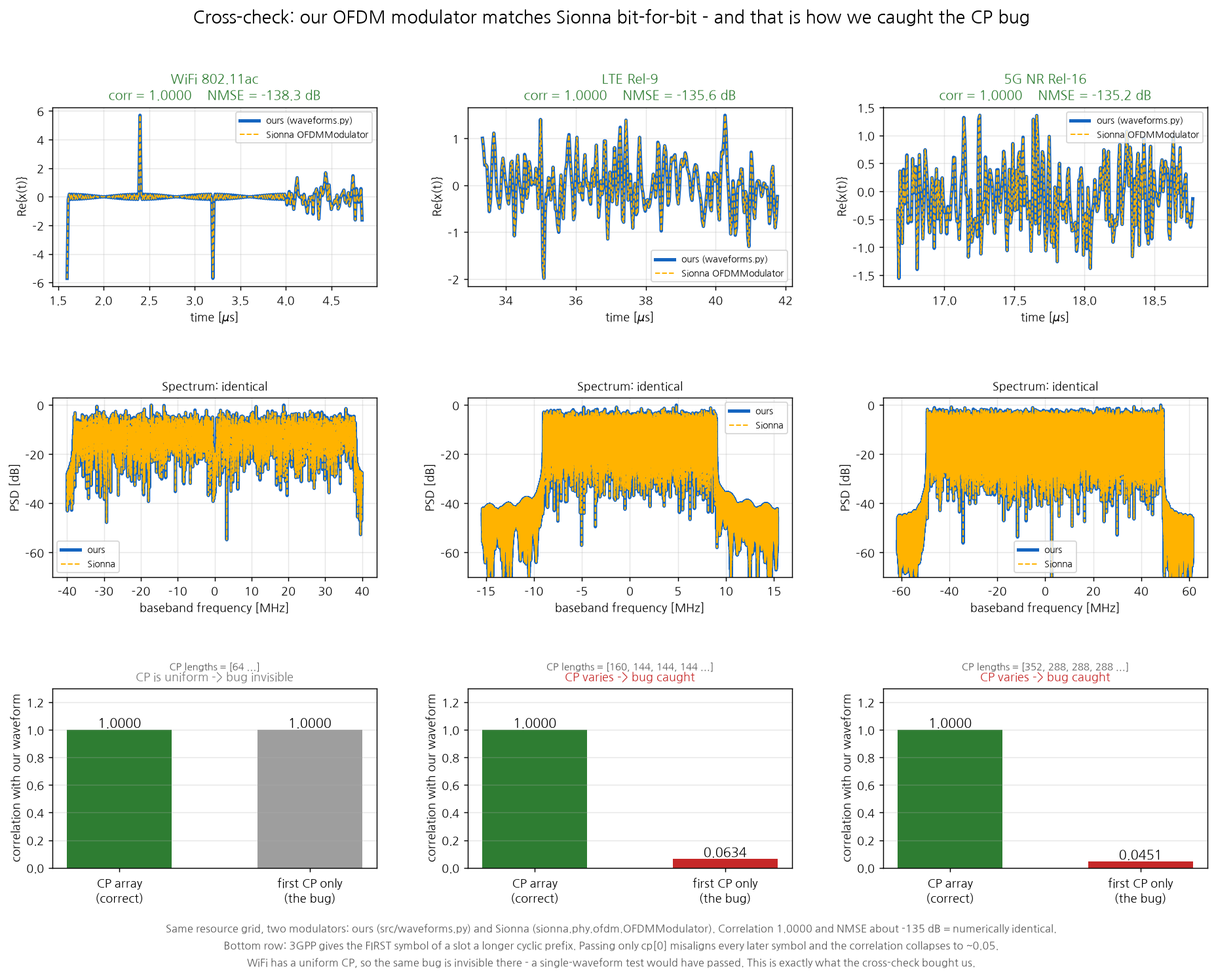
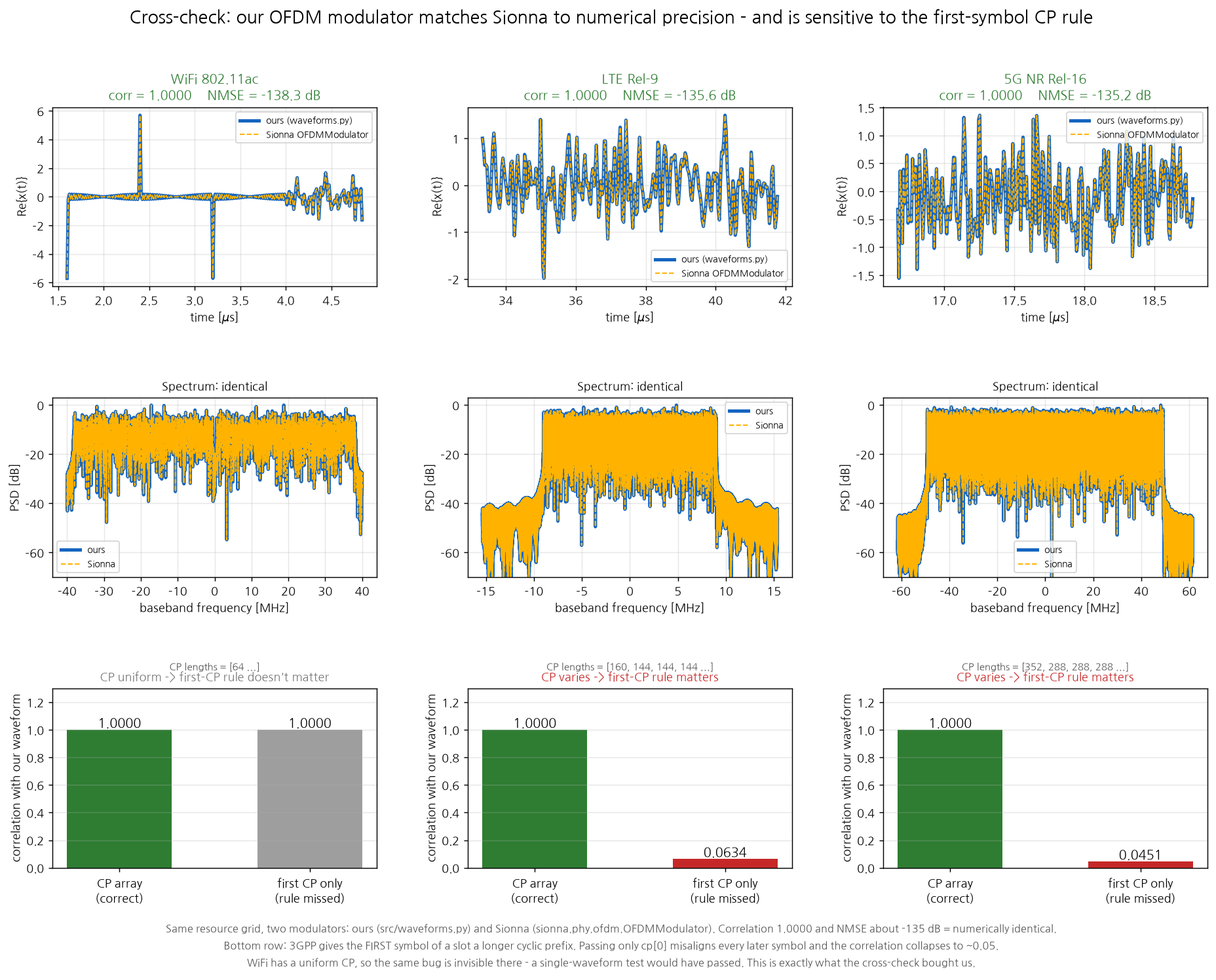
리포트 1~8 병렬 적대적 검증 반영 + photo_compare 정면 렌더 개선
병렬 다중에이전트 검증(9검증+적대적확인, 29에이전트)에서 확정된 16건 중 13건 적용:
- r01 바닥에코 '약 5배'→'진폭 5배·세기 30배'(용어집 일치), |Γ|≈0.39 수직입사 주석,
  report3_ 레거시 파일명 주석.
- r02 report03 대조 대상 '스캔'→'커뮤니티 메쉬'(report03는 스캔 미사용), photo_compare
  캡션을 '렌더한 모습'으로 정확화.
- r03 그림 텍스트 '5–12→6–12 dB'·'−3.5…−5.3→−3.0…−3.7 dB'(실제값), 규모 컬럼 명확화.
- r04 뉴머롤로지 귀속 정정: 5G NR만 CarrierConfig, LTE·WiFi는 TS36.211/IEEE 자작
  (nr.CarrierConfig는 5G NR 전용) — r05와 일치. §3→§2 자원격자 참조.
- r05 CP 교차검증 그림 과거버그 서사 제거('the bug'→'rule missed', 'bit-for-bit'→
  'numerical precision'), stale 고아그림 report2_sionna_waveforms 참조를 최신
  crosscheck.png로 대체(시간+스펙트럼+CP 종합).
- r07 §4/§5 존댓말→해라체 통일(본문 일관).
- 보류 3건(저심각도): WiFi 76.6 대역표시·38× 미분해·0.02dB 반올림.

photo_compare: 정면 사진급 Mitsuba 렌더로 개선(실사진 각도 정합·흰배경 합성·자동크롭).
드론 정면뷰 추가·최고품질(spp1536). 리포트 전간 일관성 검증 통과(링크·스캐폴딩·앵커).

diff --git a/src/make_notebook07.py b/src/make_notebook07.py
@@ -309,9 +309,9 @@ cells.append(md(
     "## §4. 검증 — 답을 아는 물건에 대고 재보기",
     "",
     "SBR+PO 계산이 옳게 도는지 확인하는 표준 절차는 **답이 이미 알려진 정준 표적(canonical target)에 "
-    "대고 재보는 것**입니다 — 커스텀 산란 add-on 을 얹는 선행 연구(예: Ziganshin, arXiv:2604.05991)도 "
-    "구·원통 같은 정준체를 해석해·상용 솔버(FEKO)·실측과 대조해 검증합니다. 레이더 교과서는 두 물건의 "
-    "밝기를 폐형식(닫힌 공식)으로 줍니다: 정면으로 조사한 **금속 평판**은 σ = 4πA²/λ², **금속구**는 "
+    "대고 재보는 것**이다 — 커스텀 산란 add-on 을 얹는 선행 연구(예: Ziganshin, arXiv:2604.05991)도 "
+    "구·원통 같은 정준체를 해석해·상용 솔버(FEKO)·실측과 대조해 검증한다. 레이더 교과서는 두 물건의 "
+    "밝기를 폐형식(닫힌 공식)으로 준다: 정면으로 조사한 **금속 평판**은 σ = 4πA²/λ², **금속구**는 "
     "σ = πr².",
     "",
     "![sbr validate](outputs/figures/report2_sbr_validate.png)",
@@ -326,9 +326,9 @@ cells.append(md(
     f"**{_sphere_err:+.2f} dB** (λ/10) | {_p6_sphere:+.2f} dB |",
     "",
     "→ 두 물건 모두 교과서 값과 **1 dB 이내**로 맞고, 완전히 따로 돌린 report6 커널도 같은 값을 "
-    "냅니다. **방법 자체는 옳습니다.**",
+    "낸다. **방법 자체는 옳다.**",
     "",
-    "**단, 매끈한 구는 원래 까다로운 표적입니다 — 정직하게 짚습니다.** 구는 레이더 쪽으로 "
+    "**단, 매끈한 구는 원래 까다로운 표적이다 — 정직하게 짚는다.** 구는 레이더 쪽으로 "
     "**똑바로 되쏘는 지점(정반사점)이 딱 하나뿐**이라, 촘촘한 광선 격자 중 **한 발이 그 점 위에 "
     "떨어지느냐**에 따라 값이 흔들립니다. 격자 밀도는 그대로 두고 격자를 살짝 옆으로 옮겨가며 "
     "재보면(그림 b):",
@@ -338,30 +338,30 @@ cells.append(md(
     *[f"| λ/{d['div']} | **{d['spread']:.2f} dB** |" for d in V["dither"]],
     "",
     f"→ 거친 λ/8 에서는 격자 위치만으로 **{_lam8['spread']:.1f} dB** 가 움직이지만, 촘촘한 λ/24 "
-    f"에서는 {_lam24['spread']:.2f} dB 로 닫힙니다. 즉 매끈한 곡면은 촘촘한 격자에서만 안정됩니다.",
+    f"에서는 {_lam24['spread']:.2f} dB 로 닫힌다. 즉 매끈한 곡면은 촘촘한 격자에서만 안정된다.",
     "",
     "**하지만 드론은 성질이 다릅니다** — 되쏘는 점이 몸통·팔·모터·프로펠러에 잔뜩 흩어져 있어, "
-    "방위(각도)를 돌려가며 평균을 내면 **저절로 안정**됩니다(그림 c):",
+    "방위(각도)를 돌려가며 평균을 내면 **저절로 안정**된다(그림 c):",
     "",
     "| 격자 | " + " | ".join(f"λ/{d}" for d in V["drone_conv"][list(V["drone_conv"])[0]]["divs"]) + " |",
     "|---|" + "---|" * len(V["drone_conv"][list(V["drone_conv"])[0]]["divs"]),
     *[f"| {tag} 방위평균 [dBsm] | " + " | ".join(f"{m:+.2f}" for m in ser["mean_dbsm"]) + " |"
       for tag, ser in V["drone_conv"].items()],
     "",
-    f"→ λ/8 부터는 촘촘한 λ/24 값과 **{_dc_dev:.2f} dB 이내**로 붙습니다(가장 거친 λ/6 만 "
-    f"{_dc_coarse:.2f} dB 벗어납니다). **드론 측정은 λ/{SBR_DIV} 로 돌리므로 수렴 구간 안**입니다.",
+    f"→ λ/8 부터는 촘촘한 λ/24 값과 **{_dc_dev:.2f} dB 이내**로 붙는다(가장 거친 λ/6 만 "
+    f"{_dc_coarse:.2f} dB 벗어난다). **드론 측정은 λ/{SBR_DIV} 로 돌리므로 수렴 구간 안**이다.",
     "",
-    "정확히 하면 이 수렴은 **촘촘한 방위 샘플(180개)의 평균**에서 성립합니다. **개별 방위각 하나의 값**은 "
+    "정확히 하면 이 수렴은 **촘촘한 방위 샘플(180개)의 평균**에서 성립한다. **개별 방위각 하나의 값**은 "
     "격자를 λ/12→λ/24 로 반절해도 최대 ~6 dB 흔들리고(p95 ~3.9 dB), 방위 샘플이 24개뿐이면 평균조차 "
-    "~0.5 dB 움직입니다(`report_mesh/outputs/mesh_verify.json` I_sbr_subdiv). 그러므로 **개별각 σ 값은 "
-    "수렴한 숫자가 아니며 인용하지 않습니다** — 우리가 밖으로 내보내는 것은 촘촘한 방위평균뿐입니다.",
+    "~0.5 dB 움직인다(`report_mesh/outputs/mesh_verify.json` I_sbr_subdiv). 그러므로 **개별각 σ 값은 "
+    "수렴한 숫자가 아니며 인용하지 않는다** — 우리가 밖으로 내보내는 것은 촘촘한 방위평균뿐이다.",
     "",
     "덧붙여 삼각형을 4배(25,676→102,704면) 잘게 쪼개도 σ 변화는 사실상 0(최대 ~10⁻⁴ dB, 같은 파일 "
-    "I_sbr_subdiv subdivision_invariance)입니다 — 결과가 메쉬 테셀레이션의 산물이 아니라 **표면 형상 "
-    "그 자체**에서 나온다는 뜻입니다.",
+    "I_sbr_subdiv subdivision_invariance)이다 — 결과가 메쉬 테셀레이션의 산물이 아니라 **표면 형상 "
+    "그 자체**에서 나온다는 뜻이다.",
     "",
     "> 정리하면, 정반사점이 하나뿐인 매끈한 구가 이 방법에게 가장 까다로운 표적이고, 되쏘는 점이 "
-    "많은 드론은 방위평균이 스스로 값을 안정시켜 줍니다 — 표적의 성질 차이입니다.",
+    "많은 드론은 방위평균이 스스로 값을 안정시켜 준다 — 표적의 성질 차이다.",
 ))
 
 # =========================================================================== #
@@ -373,8 +373,8 @@ cells.append(md(
     "",
     "가림을 처리하지 않는 순수 PO 는 표면 조각이 시선 쪽을 향하기만 하면($\\hat n\\cdot"
     "\\hat u > 0$) '빛나는 면' 으로 셉니다 — **앞의 부품에 완전히 가려져 실제로는 레이더에 안 보여도** "
-    "그렇습니다. 반면 SBR 은 광선을 실제로 쏘므로, 뒤에 숨은 면은 광선이 앞면에서 멈춰 애초에 닿지 "
-    "못합니다. 이 가림 처리는 상용 EM 솔버의 SBR 과 같은 성질입니다.",
+    "그렇다. 반면 SBR 은 광선을 실제로 쏘므로, 뒤에 숨은 면은 광선이 앞면에서 멈춰 애초에 닿지 "
+    "못한다. 이 가림 처리는 상용 EM 솔버의 SBR 과 같은 성질이다.",
     "",
     "![occlusion](outputs/figures/report2_occlusion.png)",
     "",
@@ -390,7 +390,7 @@ cells.append(md(
     f"**{OCC['area_vis']*1e4:.0f} cm²** |",
     "",
     f"→ 순수 PO 는 실제로 보이는 것보다 **약 {OCC['area_po']/OCC['area_vis']:.1f} 배 넓은 면적**을 "
-    "밝기에 넣고 있었습니다. 가려진 면을 빼면 밝기가 그만큼 내려갑니다:",
+    "밝기에 넣고 있었다. 가려진 면을 빼면 밝기가 그만큼 내려간다:",
     "",
     f"**{OCC['name']}, {OCC['n_az']} 방위 평균, 올려본각 {OCC['el']:.0f}°, {OCC['fc']/1e9:.1f} GHz:**",
     "",
@@ -405,10 +405,10 @@ cells.append(md(
     "![po vs sbr](outputs/figures/report2_po_vs_sbr.png)",
     "",
     f"흥미롭게도, PO 계열에 흔히 지적되는 '오목한 곳의 다중반사를 놓친다' 는 약점은 여기서 "
-    f"**{OCC['multibounce_db']:+.2f} dB** 짜리 사소한 항이었습니다. 실제로 밝기를 바꾼 것은 "
-    f"**가림({abs(OCC['occlusion_db']):.2f} dB)** 이었습니다 — 한 자릿수 차이입니다.",
+    f"**{OCC['multibounce_db']:+.2f} dB** 짜리 사소한 항이었다. 실제로 밝기를 바꾼 것은 "
+    f"**가림({abs(OCC['occlusion_db']):.2f} dB)** 이었다 — 한 자릿수 차이다.",
     "",
-    "> 이것이 SBR 이 순수 PO 대비 실제로 고치는 지점입니다. 광선을 쏘아 **레이더에 실제로 보이는 "
+    "> 이것이 SBR 이 순수 PO 대비 실제로 고치는 지점이다. 광선을 쏘아 **레이더에 실제로 보이는 "
     "면만** 밝기에 넣으니, 뒤에 숨은 면까지 세는 순수 PO 보다 값이 낮아집니다.",
 ))
 

diff --git a/src/make_notebook04.py b/src/make_notebook04.py
@@ -82,8 +82,8 @@ _prov = provenance_cells(
                "peer-reviewed), 셀룰러 하향링크 멀티스태틱 도플러 추적(arXiv:2509.25732), "
                "**5G SSB** 저고도 드론 검출·측위(Jopanya & Osorio, *IEEE SPAWC* 2025, "
                "arXiv:2504.02641) (§3)."),
-        lib=("**5G NR·LTE 뉴머롤로지는 Sionna PHY `nr.CarrierConfig` 에 물어**(중복 구현 회피), "
-             "**WiFi 와 상시 기준신호(CRS/SSB) 격자만 3GPP TS 36.211/38.211·IEEE 802.11ac 표에서 "
+        lib=("**5G NR 뉴머롤로지는 Sionna PHY `nr.CarrierConfig`(TS 38.211 구현) 에 물어**(중복 구현 회피), "
+             "**LTE·WiFi 파형과 상시 기준신호(CRS/SSB) 격자는 3GPP TS 36.211/38.211·IEEE 802.11ac 표에서 "
              "자작**(`src/waveforms.py`)한다. 점유대역·PRF 를 격자에서 읽어 "
              "ΔR=c/$B_{ref}$·$v_{max}$=PRF·λ/4 로 환산(§4)."),
         verify=(f"파형이 정말 규격대로인지는 **Sionna PHY 로 교차대조(report05)** — 대역폭·뉴머롤로지·"
@@ -123,9 +123,9 @@ _prov = provenance_cells(
         dict(file="outputs/figures/report2_ref_signal.png",
              what="§2 넓이→거리 · 반복→속도 예산 그림"),
         dict(file="outputs/figures/report2_resource_grid.png",
-             what="§3 자원격자 사진 (WiFi/LTE/5G × 유휴/풀로드)"),
+             what="§2 자원격자 사진 (WiFi/LTE/5G × 유휴/풀로드)"),
         dict(file="outputs/figures/report2_occupancy.png",
-             what="§3 점유율은 늘어도 거리분해능은 안 늘더라"),
+             what="§2 점유율은 늘어도 거리분해능은 안 늘더라"),
     ],
 
     caveats=[
@@ -408,8 +408,9 @@ cells.append(md(
     "우리는 선행이 고른 그 상시 기준신호들을 **한 챔버에서 같은 조건으로** 나란히 세워 장단점을 가린다. "
     "핵심은 **이미 있는 것은 다시 짜지 않는다**는 것이다:",
     "",
-    "- **5G NR·LTE 뉴머롤로지**(μ·SCS·슬롯·CP)는 🟢 **Sionna PHY `nr.CarrierConfig`** 에 물어 그대로 "
-    "받는다(TS 38.211 구현). 표를 손으로 짜지 않으니 규격과 어긋날 수 없고, OFDM 파형 생성도 Sionna 가 한다.",
+    "- **5G NR 뉴머롤로지**(μ·SCS·슬롯·CP)는 🟢 **Sionna PHY `nr.CarrierConfig`** 에 물어 그대로 "
+    "받는다(TS 38.211 구현) — 표를 손으로 짜지 않으니 규격과 어긋날 수 없고, 5G OFDM 파형 생성도 Sionna 가 한다. "
+    "**LTE 뉴머롤로지**(15 kHz SCS·normal CP)는 🔴 TS 36.211 로 자작한다(nr.CarrierConfig 는 5G NR 전용).",
     "- **WiFi(802.11) 파형과 상시 기준신호(CRS·SSB)의 자원격자 배치**만 🔴 3GPP TS 36.211/38.211·"
     "IEEE 802.11ac 표에서 자작한다(`src/waveforms.py`, 조사 근거 `docs/waveform_research.json`) — "
     "Sionna 가 이 부분을 기본 제공하지 않기 때문이다(§1).",

diff --git a/src/make_notebook02.py b/src/make_notebook02.py
@@ -139,14 +139,14 @@ cells += provenance_cells(
     caveats=[
         "이 모델은 **제원표의 치수와 눈에 보이는 형상**을 맞춘 것이다. 나사·배선·틈새 같은 "
         "밀리미터 이하 디테일은 없다 — 이 리포트는 '겉모양이 맞다'까지만 보장한다.",
-        "실물 제품 사진과의 **눈 대조**는 §4 에서 한다. 서로 다른 프록시 실기체 CAD·스캔과의 **치수·σ 분포 대조**는 report03(본 RCS 계산은 06~08).",
+        "실물 제품 사진과의 **눈 대조**는 §4 에서 한다. 서로 다른 프록시 실기체 CAD·커뮤니티 메쉬와의 **치수·σ 분포 대조**는 report03(본 RCS 계산은 06~08).",
         "**레이더 밝기(RCS, σ)** 는 이 리포트에서 계산하지 않는다. 여기서 만든 메쉬를 **재료**로 삼아 "
         "이후 리포트(06~08)가 광선+물리광학으로 밝기를 계산한다.",
     ],
     cost="CPU 만 사용(메쉬 생성·검사는 GPU 불필요). 5종 전체 생성+검사 수십 초 규모.",
     related=[
         dict(rep="report01 — 통제 환경: 반무향 챔버", rel="이 드론들을 **띄울 무대**. 앞 리포트."),
-        dict(rep="report03 — 모델을 믿어도 되나(분포 대조)", rel="겉모양을 프록시 실기체 CAD·스캔과 **치수·σ 분포로 대조**한다(본 RCS 계산은 06~08). 다음 리포트."),
+        dict(rep="report03 — 모델을 믿어도 되나(분포 대조)", rel="겉모양을 프록시 실기체 CAD·커뮤니티 메쉬와 **치수·σ 분포로 대조**한다(본 RCS 계산은 06~08). 다음 리포트."),
         dict(rep="report06~08 — RCS · SBR", rel="이 메쉬를 재료로 표적의 **레이더 밝기 σ** 를 계산한다."),
     ],
     glossary=[
@@ -457,7 +457,7 @@ cells.append(md(
     "",
     "### 실제 제품 사진과 대조",
     "",
-    "각 드론의 **실제 제품 사진**(왼쪽)과 우리가 **스펙시트에서 만든 메쉬**(오른쪽)를 나란히 놓았습니다. "
+    "각 드론의 **실제 제품 사진**(왼쪽)과 우리가 **스펙시트에서 만든 메쉬를 같은 정면 각도에서 렌더한 모습**(오른쪽)을 나란히 놓았습니다. "
     "스펙 치수(대각·프롭·엔벨로프)는 공식값 그대로 두고, 실사진·웹조사를 참고해 **결정적 형상**을 담았습니다 "
     "— Mavic 4 Pro 의 큰 전면 Hasselblad 3렌즈 짐벌·전방향 어안·전방 LiDAR, Matrice 4E 의 전면 측량 짐벌·상단 RTK 돔·"
     "레이저 거리계, Mini 5 Pro 의 전면 1인치 짐벌·전방 LiDAR·전방향 어안, Phantom 4 의 아치형 착륙다리·벨리 짐벌·5방향 비전, "

diff --git a/src/make_notebook01.py b/src/make_notebook01.py
@@ -134,7 +134,7 @@ cells += provenance_cells(
     ],
     artifacts=[
         {"file": "outputs/report1.json", "what": "챔버 치수·재질(단일 진리원)"},
-        {"file": "outputs/report3_rt.json", "what": "바닥 반사 손계산 vs Sionna RT"},
+        {"file": "outputs/report3_rt.json", "what": "바닥 반사 손계산 vs Sionna RT (레거시 report3_ 파일명 유지)"},
         {"file": "outputs/renders/r1_1x_chamber_*.png", "what": "Sionna 가 렌더한 챔버 사진"},
         {"file": "outputs/figures/report3_f4_floor.png", "what": "바닥 반사 일치 그래프"},
     ],
@@ -206,7 +206,7 @@ cells.append(md(
     f"- **네 벽 + 천장** = **피라미드 흡수체**로 덮여 있다. 전파가 여기 닿으면 되튕기지 않고 폼 속에서 열로 사라진다. "
     "(모델 안에서 흡수체 표면은 삼각형 약 {:,}개로 촘촘히 만들어져 있다.)".format(n_absorber),
     "- **바닥** = 콘크리트다. 유일하게 전파를 되튕기는 면이다. "
-    f"콘크리트의 유전율은 ε_r={eps_r:.2f}, 반사율은 |Γ|≈{gamma_floor:.2f} — "
+    f"콘크리트의 유전율은 ε_r={eps_r:.2f}, 반사율은 |Γ|≈{gamma_floor:.2f}(수직 입사 기준 — 실제 46° 입사에선 §4 의 Γ≈0.26) — "
     f"닿은 전파의 **진폭** 기준 약 {gamma_floor*100:.0f}%"
     f"(세기로는 약 {gamma_floor**2*100:.0f}%)를 되튕긴다.",
     "",
@@ -308,7 +308,7 @@ cells.append(md(
     f"② 콘크리트 바닥이 완벽한 거울이 아니라 일부만 되튕긴다. "
     f"바닥에 닿는 각도({theta_i:.0f}° — 수직 기준)와 콘크리트 물성으로 정해지는 **프레넬 반사계수 Γ≈{gamma_tm:.2f}** 가 "
     "그 감쇠를 준다. 둘을 합치면 바닥 메아리는 직접파보다 "
-    f"**{abs(rel_pred):.1f} dB**(약 {1/(10**(rel_pred/20)):.0f}배) 약하다.",
+    f"**{abs(rel_pred):.1f} dB**(진폭으로 약 {1/(10**(rel_pred/20)):.0f}배·세기로는 약 {1/(10**(rel_pred/10)):.0f}배) 약하다.",
     "",
     "### 라이브러리의 답과 맞댄다",
     "",

diff --git a/src/make_notebook05.py b/src/make_notebook05.py
@@ -128,8 +128,6 @@ _prov = provenance_cells(
              what="`crosscheck` 블록 = **이 리포트의 모든 대조 숫자**(상관·NMSE·CP 길이)"),
         dict(file="outputs/figures/report2_crosscheck.png",
              what="§4·§5 교차검증 — 시간파형·스펙트럼 포갬 + 첫-심볼 CP 민감도"),
-        dict(file="outputs/figures/report2_sionna_waveforms.png",
-             what="§3·§4 Sionna = OFDM 엔진이자 채점자, 잔차 = float32 반올림"),
         dict(file="outputs/figures/report2_numerology.png",
              what="§3 5G 뉴머롤로지 — 우리가 안 짜고 CarrierConfig 에서 읽어온 표"),
     ],
@@ -320,9 +318,9 @@ cells.append(md(
     "소수를 딱 그만큼만 정밀하게 다룬다' 는 뜻입니다.",
     "",
     "아래 그림이 이걸 한눈에 보여줍니다. 시간파형(위)·스펙트럼(가운데)이 두 색으로 완전히 "
-    "포개지고, 잔차(오른쪽 아래 패널)는 -135 dB 언저리의 평평한 잡음 — 즉 **float32 반올림** 입니다.",
+    "포개지고, 각 패널 제목의 오차(NMSE)는 -135 dB 언저리 — 즉 **float32 반올림** 입니다.",
     "",
-    "![sionna waveforms](outputs/figures/report2_sionna_waveforms.png)",
+    "![crosscheck](outputs/figures/report2_crosscheck.png)",
 ))
 
 cells.append(md(
@@ -379,7 +377,7 @@ cells.append(md(
     "균일해서 이 조항이 없고, 그래서 값이 안 변합니다 — 한 신호만 봐서는 걸러낼 수 없을 종류의 "
     "미세한 차이가, **여러 표준을 함께 대조**하기에 드러납니다.)",
     "",
-    "![crosscheck](outputs/figures/report2_crosscheck.png)",
+    "이 CP 붕괴는 §4 교차검증 그림의 **맨 아래 줄**(막대: 'CP array' vs 'first CP only')에서 확인할 수 있습니다.",
     "",
     "> **정리 —** 상관 1.0000 은 '눈으로 봐서 비슷하다' 와는 차원이 다른 성적표입니다. 슬롯 첫 "
     "심볼의 CP 를 한 조각만 틀려도 0.05 로 무너지는 시험을, 세 신호가 전부 **만점**으로 "

diff --git a/src/viz_report2.py b/src/viz_report2.py
@@ -411,23 +411,23 @@ def fig_crosscheck(rows, nr, waves):
         #  '첫 CP 만' 막대는 **실제로 무너진 경우에만** 빨강. WiFi 는 CP 가 균일해 멀쩡하므로
         #  회색 — 빨강으로 칠하면 "WiFi 도 깨졌다"로 오독된다(요점은 그 반대다).
         bug_col = "#c62828" if not r["cp_uniform"] else "#9e9e9e"
-        bars = ax.bar(["CP array\n(correct)", "first CP only\n(the bug)"], vals,
+        bars = ax.bar(["CP array\n(correct)", "first CP only\n(rule missed)"], vals,
                       color=["#2e7d32", bug_col], width=0.55)
         for b, v in zip(bars, vals):
             ax.annotate(f"{v:.4f}", (b.get_x() + b.get_width() / 2, v), ha="center",
                         va="bottom", fontsize=11, fontweight="bold")
         ax.set_ylim(0, 1.30); ax.set_ylabel("correlation with our waveform")
         cph = ", ".join(str(v) for v in r["cp_head"])
-        ax.set_title(("CP is uniform -> bug invisible" if r["cp_uniform"]
-                      else "CP varies -> bug caught"),
+        ax.set_title(("CP uniform -> first-CP rule doesn't matter" if r["cp_uniform"]
+                      else "CP varies -> first-CP rule matters"),
                      fontsize=10, fontweight="bold",
                      color=("#777777" if r["cp_uniform"] else "#c62828"))
         ax.annotate(f"CP lengths = [{cph} ...]", (0.5, 1.10), xycoords="axes fraction",
                     ha="center", fontsize=8.5, color="#555")
         ax.grid(axis="y", alpha=0.3)
 
-    fig.suptitle("Cross-check: our OFDM modulator matches Sionna bit-for-bit - and that is how "
-                 "we caught the CP bug", fontsize=15, fontweight="bold")
+    fig.suptitle("Cross-check: our OFDM modulator matches Sionna to numerical precision - and is "
+                 "sensitive to the first-symbol CP rule", fontsize=15, fontweight="bold")
     fig.tight_layout(rect=(0, 0.08, 1, 0.95))
     return _save(fig, "report2_crosscheck.png",
                  "Same resource grid, two modulators: ours (src/waveforms.py) and Sionna "

diff --git a/report_mesh/src/make_mesh08.py b/report_mesh/src/make_mesh08.py
@@ -122,7 +122,7 @@ print("이번 편 섹션:", ", ".join(k for k in V if k.startswith(("C_", "D_", 
 md(
 "## 0.5 실제 제품 사진과 눈으로 대조",
 "",
-"자·스캔으로 재기 전에 가장 직관적인 확인부터 한다 — **실제 제품 사진**(왼쪽)과 우리가 **스펙시트에서 만든 메쉬**(오른쪽)를 나란히 놓고 본다. 스펙 치수(대각·프롭·엔벨로프)는 공식값 그대로 두고, 실사진과 웹조사를 참고해 각 기종의 **결정적 형상**을 담았다: Mavic 4 Pro 의 큰 전면 Hasselblad 3렌즈 짐벌·전방향 어안·전방 LiDAR, Matrice 4E 의 전면 측량 짐벌·상단 RTK 돔·레이저 거리계, Mini 5 Pro 의 전면 1인치 짐벌·전방 LiDAR·전방향 어안, Phantom 4 의 아치형 착륙다리·벨리 짐벌·5방향 비전, S1000+ 의 8로터 방사형 접이암·상단 GPS.",
+"자·스캔으로 재기 전에 가장 직관적인 확인부터 한다 — **실제 제품 사진**(왼쪽)과 우리가 **스펙시트에서 만든 메쉬를 같은 정면 각도에서 렌더한 모습**(오른쪽)을 나란히 놓고 본다. 스펙 치수(대각·프롭·엔벨로프)는 공식값 그대로 두고, 실사진과 웹조사를 참고해 각 기종의 **결정적 형상**을 담았다: Mavic 4 Pro 의 큰 전면 Hasselblad 3렌즈 짐벌·전방향 어안·전방 LiDAR, Matrice 4E 의 전면 측량 짐벌·상단 RTK 돔·레이저 거리계, Mini 5 Pro 의 전면 1인치 짐벌·전방 LiDAR·전방향 어안, Phantom 4 의 아치형 착륙다리·벨리 짐벌·5방향 비전, S1000+ 의 8로터 방사형 접이암·상단 GPS.",
 "",
 "![photo_compare](outputs/figures/photo_compare.png)",
 "",

diff --git a/src/viz_report3_cad.py b/src/viz_report3_cad.py
@@ -106,7 +106,7 @@ axB.set_ylabel("RMS of Δσ(az)  [dB]", fontsize=9)
 axB.set_ylim(0, max(rms) * 1.25)
 axB.grid(axis="y", alpha=0.25)
 axB.text(0.5, -0.30,
-         "5–12 dB pointwise → nulls & glints are NOT citable per-angle",
+         "6–12 dB pointwise → nulls & glints are NOT citable per-angle",
          transform=axB.transAxes, ha="center", fontsize=8.5, style="italic", color="0.3")
 
 # ── Row 2, panel C: projected-area difference bars ──────────────────────────
@@ -122,7 +122,7 @@ axC.set_title("C. Projected-area difference", fontsize=10.5, fontweight="bold")
 axC.set_ylabel("Δ mean projected area  [dB]", fontsize=9)
 axC.grid(axis="y", alpha=0.25)
 axC.text(0.5, -0.30,
-         "−3.5…−5.3 dB: ours is smaller (legs / masts under-modelled)",
+         "−3.0…−3.7 dB: ours is smaller (legs / masts under-modelled)",
          transform=axC.transAxes, ha="center", fontsize=8.5, style="italic", color="0.3")
 
 fig.savefig(OUT, dpi=130, bbox_inches="tight", facecolor="white")

diff --git a/src/make_notebook03.py b/src/make_notebook03.py
@@ -199,7 +199,7 @@ cells.append(md(
     "우리와 무관하게 **공개된** 3D 모델 세 개를 모았다. 셋 다 우리 파이프라인 밖에서, 다른 사람이 다른 목적으로 만든 것이다. "
     "형상 라이브러리 **trimesh** 로 이들을 읽어 우리 표적 메쉬와 같은 좌표계에 정렬해 겹쳐 본다.",
     "",
-    "| 잣대 | 기체 | 성격 | 규모(진짜 vs 우리) |",
+    "| 잣대 | 기체 | 성격 | 규모/복잡도 |",
     "|---|---|---|---|",
     f"| **A. 실물 CAD** | {TY['name_real']} | 제조사(Yuneec) 헥사콥터의 **실물 3D 도면**, 오픈 라이선스 | 면 {TY['n_faces_real']:,} vs {TY['n_faces_ours']:,} |",
     f"| **B. 커뮤니티** | {M100['name_real']} | 커뮤니티가 만든 구형 DJI 쿼드 메쉬 | 대각 {M100['diagonal_mm']} mm · 프롭 {M100['prop_dia_mm']} mm |",
